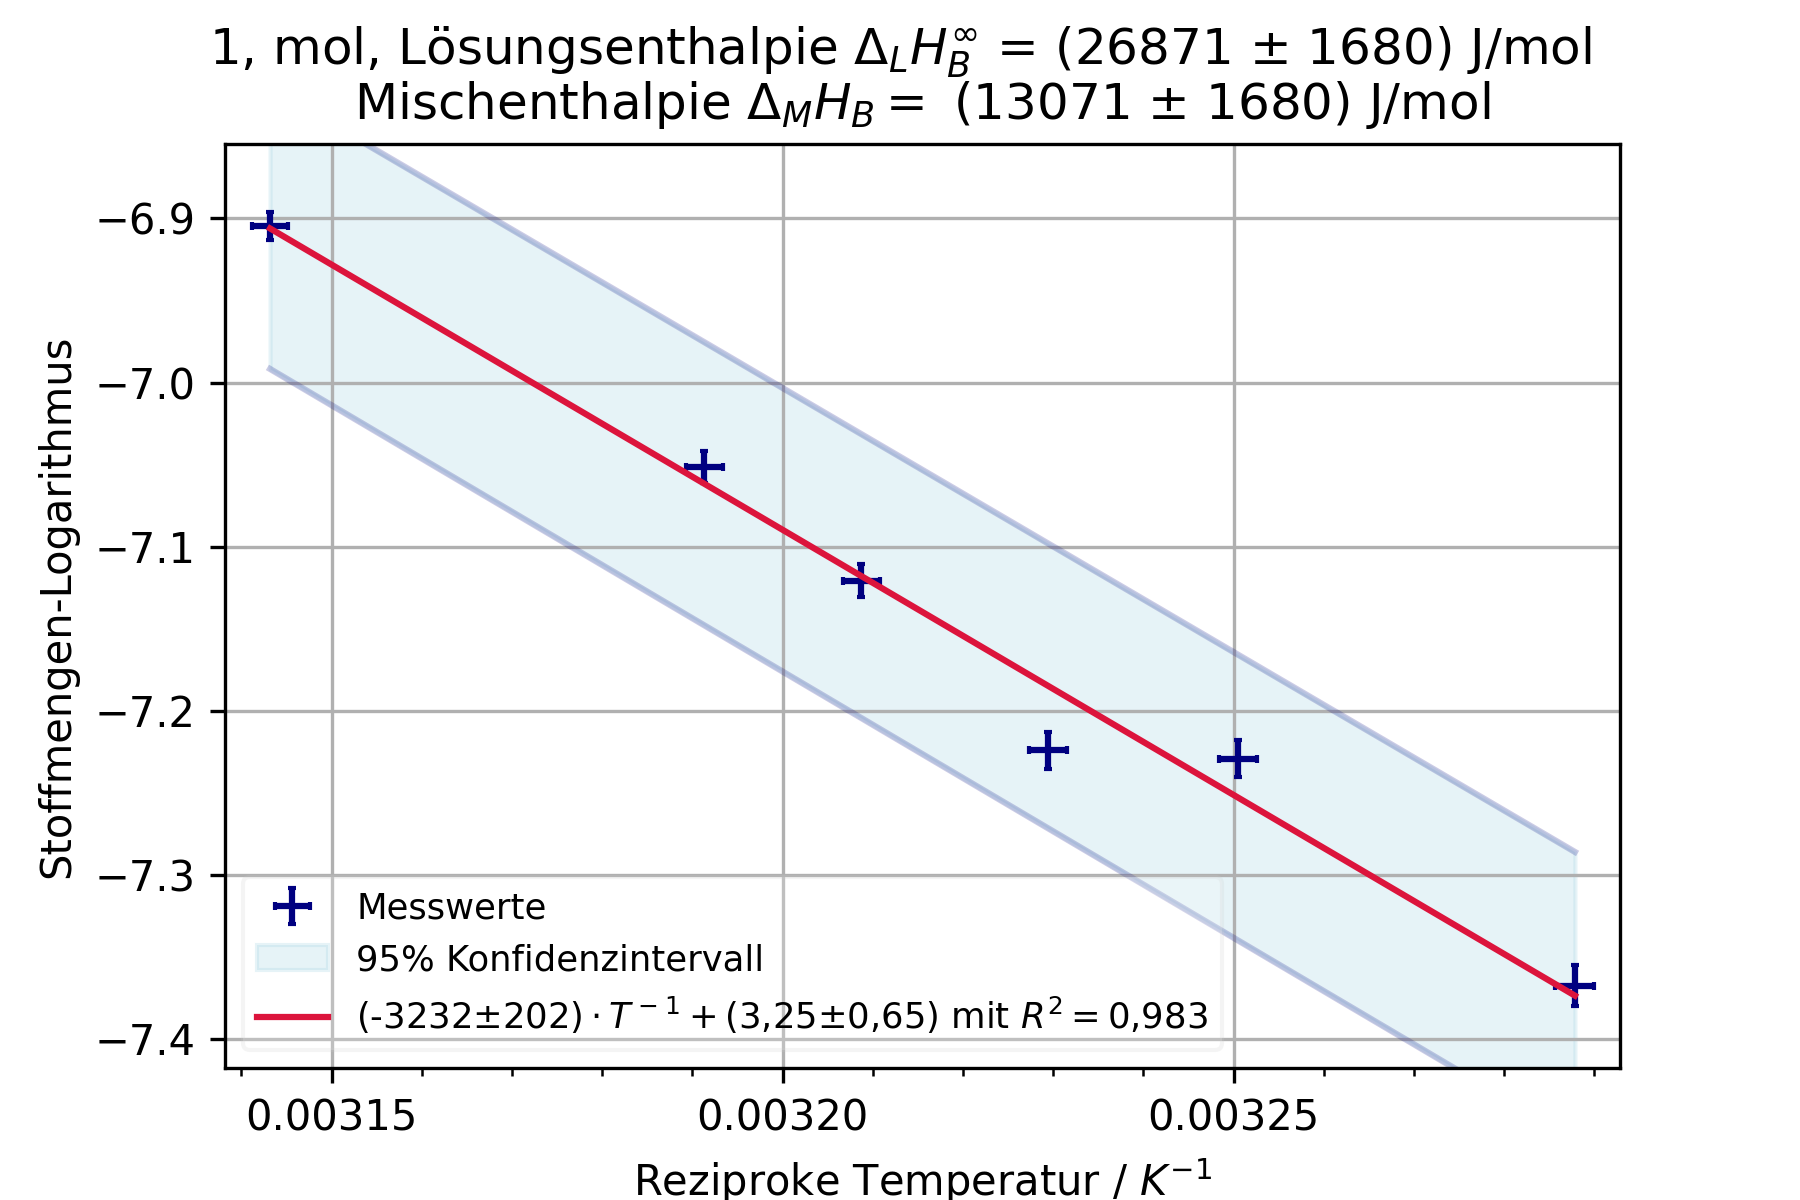
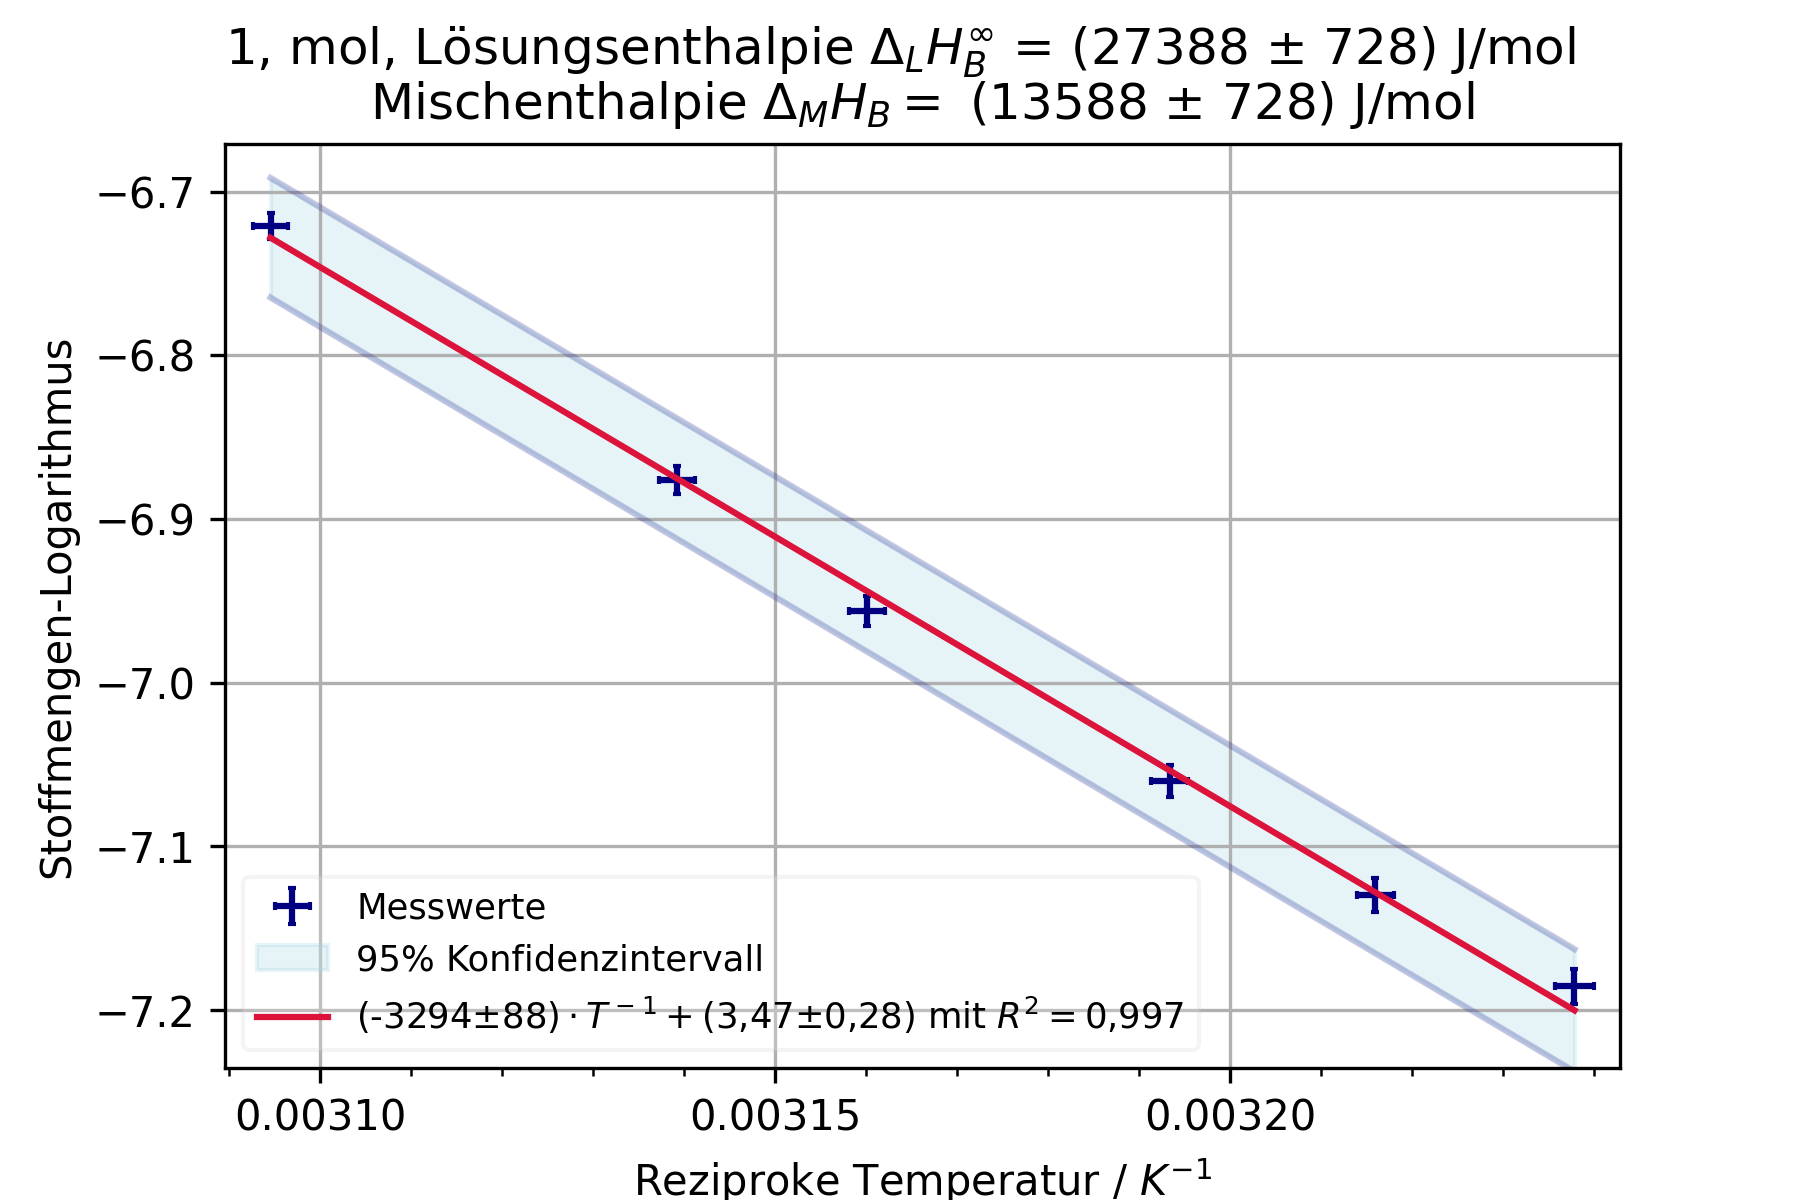
new file:   Daten/Wasser_SS_25.csv 	modified:   "L\303\266sungen.py" 	modified:   PNG/WS2425 Wasser/Wasser A5 Benzoe.png

diff --git a/Lösungen.py b/Lösungen.py
@@ -16,8 +16,8 @@ CTable = ['deeppink', 'purple', 'indigo', 'blue', 'cornflowerblue', 'cadetblue',
 
 
 #Einlesen der Daten und Definition der Gruppen und Stoffe
-Data = pd.read_table(f'{path}\\Daten\\Wasser_WS_24-25.csv', sep=",", header=0, index_col=0)
-Data_ideal = pd.read_table(f'{path}\\Daten\\Ideal_WS_24-25.csv', sep=",", header=0, index_col=0)
+Data = pd.read_table(f'{path}\\Daten\\Wasser_SS_25.csv', sep=",", header=0, index_col=0)
+# Data_ideal = pd.read_table(f'{path}\\Daten\\Ideal_SS_25.csv', sep=",", header=0, index_col=0)
 Gruppen = ['A1', 'A2', 'A3', 'A4', 'A5','A6', 'A7', 'B1', 'B2', 'B3', 'B4', 'B5','B6']
 Stoffe = ['Benzoe', 'Salicyl']
 
@@ -242,8 +242,9 @@ def EineGruppe(Gruppe, Print):
 
 # # Mögliche Auswertmethoden:
 
-# EineAbfrage('A1', 'Benzoe') # Einzelne Gruppe und einzelner Stoff
+EineAbfrage('A5', 'Benzoe', True) # Einzelne Gruppe und einzelner Stoff
 # EineGruppe('A1') # Eine Gruppe und beide Stoffe sowie die ideale Lösung
 # Ideal('A1') # Ideale Lösung für eine Gruppe
 
-AlleAbfragen()  # Alle Gruppen und Stoffe. Optional Print=True/False für Ausgabe der Ergebnisse
+# AlleAbfragen()  # Alle Gruppen und Stoffe. Optional Print=True/False für Ausgabe der Ergebnisse
+
